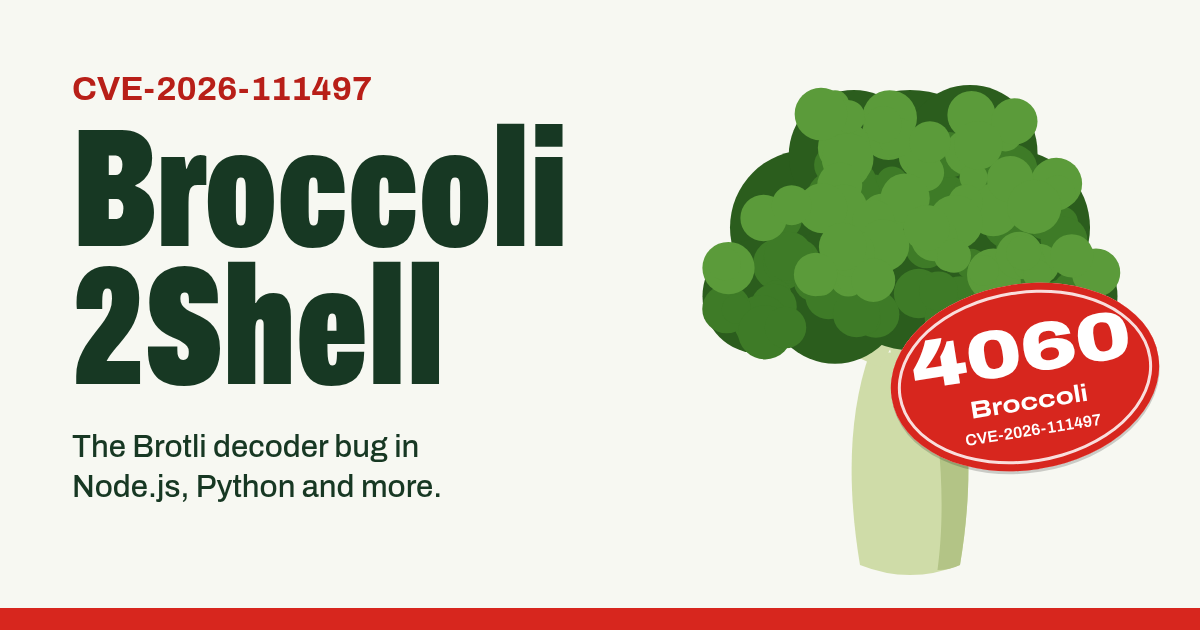
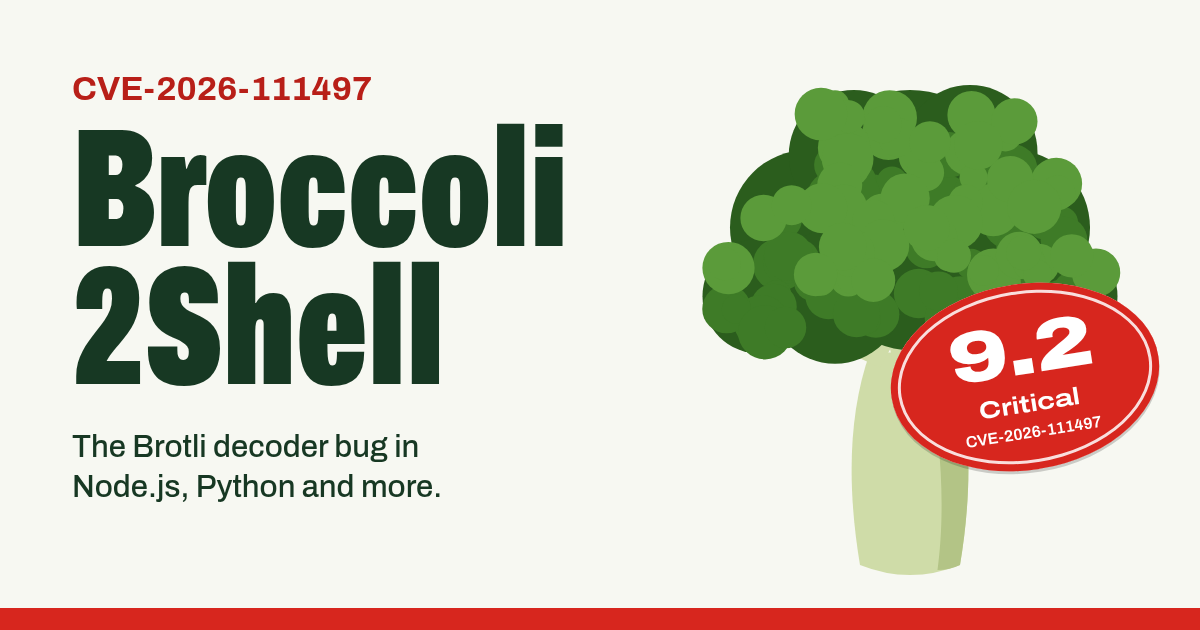
Show CVSS 9.2 Critical on the sticker instead of the PLU code
PLU produce codes aren't familiar outside North America and Europe.

Changed region(s): [[0.74, 0.4825, 0.9558, 0.7238]]

diff --git a/public/index.html b/public/index.html
@@ -18,7 +18,7 @@
 <meta property="og:image:width" content="1200">
 <meta property="og:image:height" content="630">
 <meta property="og:image:type" content="image/png">
-<meta property="og:image:alt" content="A head of broccoli with a red produce sticker reading 4060, Broccoli, CVE-2026-111497, next to the title Broccoli2Shell">
+<meta property="og:image:alt" content="A head of broccoli with a red produce sticker reading 9.2 Critical, CVE-2026-111497, next to the title Broccoli2Shell">
 <meta property="og:locale" content="en_US">
 <meta property="article:published_time" content="2026-10-24T00:00:00Z">
 <meta property="article:modified_time" content="2026-10-24T00:00:00Z">
@@ -26,7 +26,7 @@
 <meta name="twitter:title" content="Broccoli2Shell: the Brotli decoder bug (CVE-2026-111497)">
 <meta name="twitter:description" content="An out-of-bounds write in Google's Brotli decoder reaches Node.js, Python and more. Affected versions, checks and fixes.">
 <meta name="twitter:image" content="https://broccoli2shell.com/og.png">
-<meta name="twitter:image:alt" content="A head of broccoli with a red produce sticker reading 4060, Broccoli, CVE-2026-111497">
+<meta name="twitter:image:alt" content="A head of broccoli with a red produce sticker reading 9.2 Critical, CVE-2026-111497">
 <meta name="theme-color" content="#f7f8f2" media="(prefers-color-scheme: light)">
 <meta name="theme-color" content="#132a1c" media="(prefers-color-scheme: dark)">
 <meta name="color-scheme" content="light dark">
@@ -335,8 +335,8 @@ nav.toc a:hover { text-decoration: underline; text-decoration-color: var(--red);
 <g class="fl-front"><circle cx="150.2" cy="100.3" r="18.0"/><circle cx="212.5" cy="86.0" r="15.1"/><circle cx="186.4" cy="63.7" r="11.6"/><circle cx="182.8" cy="74.9" r="21.1"/><circle cx="207.7" cy="93.5" r="16.6"/><circle cx="245.9" cy="90.0" r="18.1"/><circle cx="147.3" cy="86.1" r="21.0"/><circle cx="150.1" cy="95.2" r="20.7"/><circle cx="212.3" cy="106.1" r="15.0"/><circle cx="143.8" cy="116.0" r="18.0"/><circle cx="82.9" cy="142.4" r="18.6"/><circle cx="147.0" cy="134.4" r="18.8"/><circle cx="129.9" cy="134.5" r="20.0"/><circle cx="105.3" cy="132.1" r="16.0"/><circle cx="266.6" cy="135.9" r="21.1"/><circle cx="317.0" cy="114.9" r="20.7"/><circle cx="318.2" cy="122.3" r="14.0"/><circle cx="280.1" cy="111.4" r="18.6"/><circle cx="250.9" cy="109.9" r="11.2"/><circle cx="299.4" cy="133.4" r="21.7"/><circle cx="244.5" cy="129.7" r="13.9"/><circle cx="148.4" cy="59.4" r="11.4"/><circle cx="140.0" cy="51.6" r="11.4"/><circle cx="183.7" cy="62.1" r="21.9"/><circle cx="189.9" cy="77.7" r="15.6"/><circle cx="178.6" cy="67.7" r="14.9"/><circle cx="129.2" cy="63.3" r="14.7"/><circle cx="150.8" cy="61.3" r="13.2"/><circle cx="128.8" cy="59.3" r="21.1"/><circle cx="276.3" cy="76.0" r="13.1"/><circle cx="215.9" cy="81.6" r="16.6"/><circle cx="249.2" cy="60.0" r="19.3"/><circle cx="283.5" cy="65.1" r="18.5"/><circle cx="254.6" cy="84.2" r="19.4"/><circle cx="54.8" cy="182.4" r="20.9"/><circle cx="51.7" cy="179.1" r="13.1"/><circle cx="303.4" cy="179.2" r="16.3"/><circle cx="348.8" cy="186.1" r="19.4"/><circle cx="329.4" cy="172.6" r="17.3"/><circle cx="178.6" cy="141.8" r="19.0"/><circle cx="236.3" cy="145.8" r="21.9"/><circle cx="231.2" cy="173.1" r="11.9"/><circle cx="196.1" cy="126.5" r="19.7"/><circle cx="170.6" cy="144.6" r="16.9"/><circle cx="219.3" cy="158.4" r="18.6"/><circle cx="178.5" cy="164.5" r="20.9"/><circle cx="213.4" cy="150.4" r="18.5"/><circle cx="150.6" cy="190.8" r="14.4"/><circle cx="154.4" cy="190.2" r="13.3"/><circle cx="174.2" cy="189.3" r="12.9"/><circle cx="152.6" cy="170.3" r="19.3"/><circle cx="170.7" cy="192.1" r="17.5"/><circle cx="146.2" cy="165.3" r="19.1"/><circle cx="128.8" cy="193.1" r="11.5"/><circle cx="124.5" cy="187.6" r="17.4"/><circle cx="235.2" cy="172.7" r="13.6"/><circle cx="270.2" cy="195.4" r="18.6"/><circle cx="266.7" cy="187.8" r="21.1"/><circle cx="287.6" cy="172.4" r="19.0"/><circle cx="295.5" cy="179.1" r="13.1"/><circle cx="258.8" cy="184.3" r="12.4"/><circle cx="302.0" cy="187.6" r="11.6"/><circle cx="290.9" cy="170.2" r="14.0"/></g>
       </svg>
       <div class="sticker" aria-hidden="true">
-        <span class="plu">4060</span>
-        <span class="name">Broccoli</span>
+        <span class="plu">9.2</span>
+        <span class="name">Critical</span>
         <span class="id">CVE-2026-111497</span>
       </div>
     </div>
